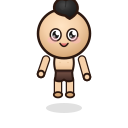
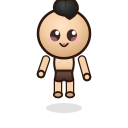
Simplify hero eyes: warm brown, single highlight, no staring
- Use dark brown (#3E2723) instead of black for friendlier look
- Remove white sclera outline (was making eyes too intense)
- Pupils look slightly down-left instead of dead center
- Single small highlight dot instead of two (Cookie Run style)
- Overall simpler, cuter, less creepy eye design

https://claude.ai/code/session_015pMPoBHWnGv3b918Z49D2y

Changed region(s): [[0.375, 0.2188, 0.625, 0.3438]]

diff --git a/src/templates/chibi_parts.js b/src/templates/chibi_parts.js
@@ -159,23 +159,22 @@ function chibiHead(opts = {}) {
     starEye(eyeL, eyeY);
     starEye(eyeR, eyeY);
   } else {
-    // ── MẮT MỞ TO LONG LANH (default cho happy, serious, thinking, v.v.) ──
-    const drawBigEye = (ex, ey, lookUpRight) => {
-      // Tròng mắt trắng lớn
-      body += `    <ellipse cx="${ex}" cy="${ey}" rx="${eyeSize * 0.9}" ry="${eyeSize}" fill="#FFFFFF" stroke="${outline}" stroke-width="1.5" />\n`;
-      // Đồng tử đen to tròn
-      const pupilOffX = lookUpRight ? 1.5 : 0;
-      const pupilOffY = lookUpRight ? -1.5 : 0;
-      body += `    <ellipse cx="${ex + pupilOffX}" cy="${ey + pupilOffY}" rx="${eyeSize * 0.55}" ry="${eyeSize * 0.65}" fill="${PALETTE.hero.eyes.base}" />\n`;
-      // Highlight lớn (phản chiếu ánh sáng chính)
-      body += `    <ellipse cx="${ex + pupilOffX + 2}" cy="${ey + pupilOffY - 2}" rx="2.2" ry="2.5" fill="${PALETTE.hero.eyeShine}" />\n`;
-      // Highlight nhỏ (phản chiếu phụ)
-      body += `    <ellipse cx="${ex + pupilOffX - 1.5}" cy="${ey + pupilOffY + 1.5}" rx="1.2" ry="1.2" fill="${PALETTE.hero.eyeShine}" opacity="0.6" />\n`;
+    // ── MẮT TO ĐƠN GIẢN CUTE (kiểu Cookie Run / Angry Birds) ──
+    // Mắt oval nâu đậm (không đen thui), đồng tử nhìn hơi xuống-trái
+    // (tránh cảm giác nhìn thẳng vào người chơi), 1 highlight nhỏ gọn
+    const drawCuteEye = (ex, ey, lookUpRight) => {
+      const browColor = '#3E2723';  // nâu đậm ấm, không phải đen
+      // Tròng mắt nâu đậm to tròn (không có viền trắng bao quanh)
+      const pupilOffX = lookUpRight ? 1.2 : -0.5;  // hơi nhìn sang trái (tự nhiên)
+      const pupilOffY = lookUpRight ? -1.2 : 0.5;   // hơi nhìn xuống (thân thiện)
+      body += `    <ellipse cx="${ex + pupilOffX}" cy="${ey + pupilOffY}" rx="${eyeSize * 0.85}" ry="${eyeSize}" fill="${browColor}" />\n`;
+      // 1 highlight tròn nhỏ gọn (phản chiếu đơn giản)
+      body += `    <ellipse cx="${ex + pupilOffX + 2}" cy="${ey + pupilOffY - 2.5}" rx="2" ry="2.2" fill="${PALETTE.hero.eyeShine}" />\n`;
     };
 
     const lookUp = (expr === 'thinking');
-    drawBigEye(eyeL, eyeY, lookUp);
-    drawBigEye(eyeR, eyeY, lookUp);
+    drawCuteEye(eyeL, eyeY, lookUp);
+    drawCuteEye(eyeR, eyeY, lookUp);
   }
 
   // ── Miệng ──
